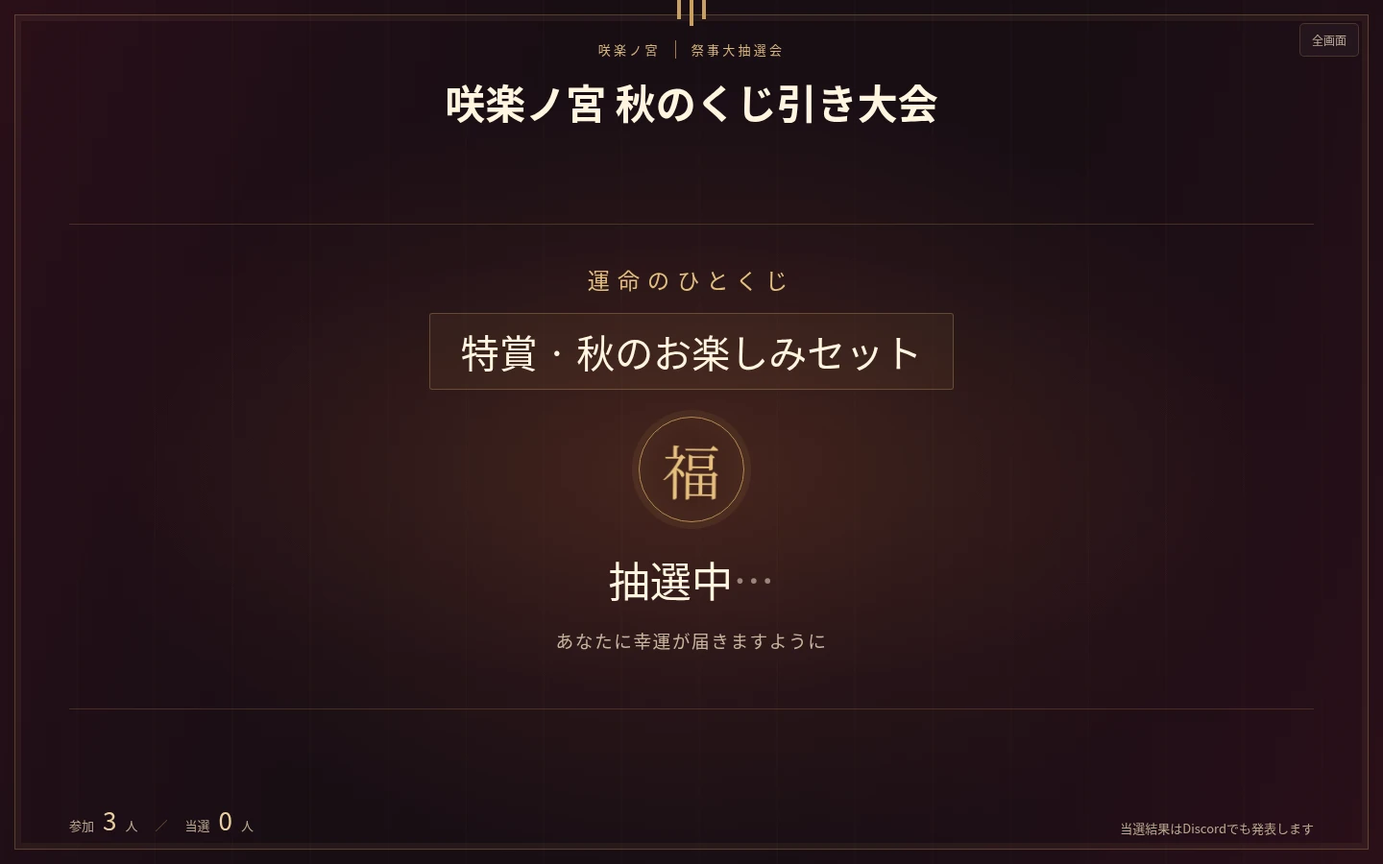
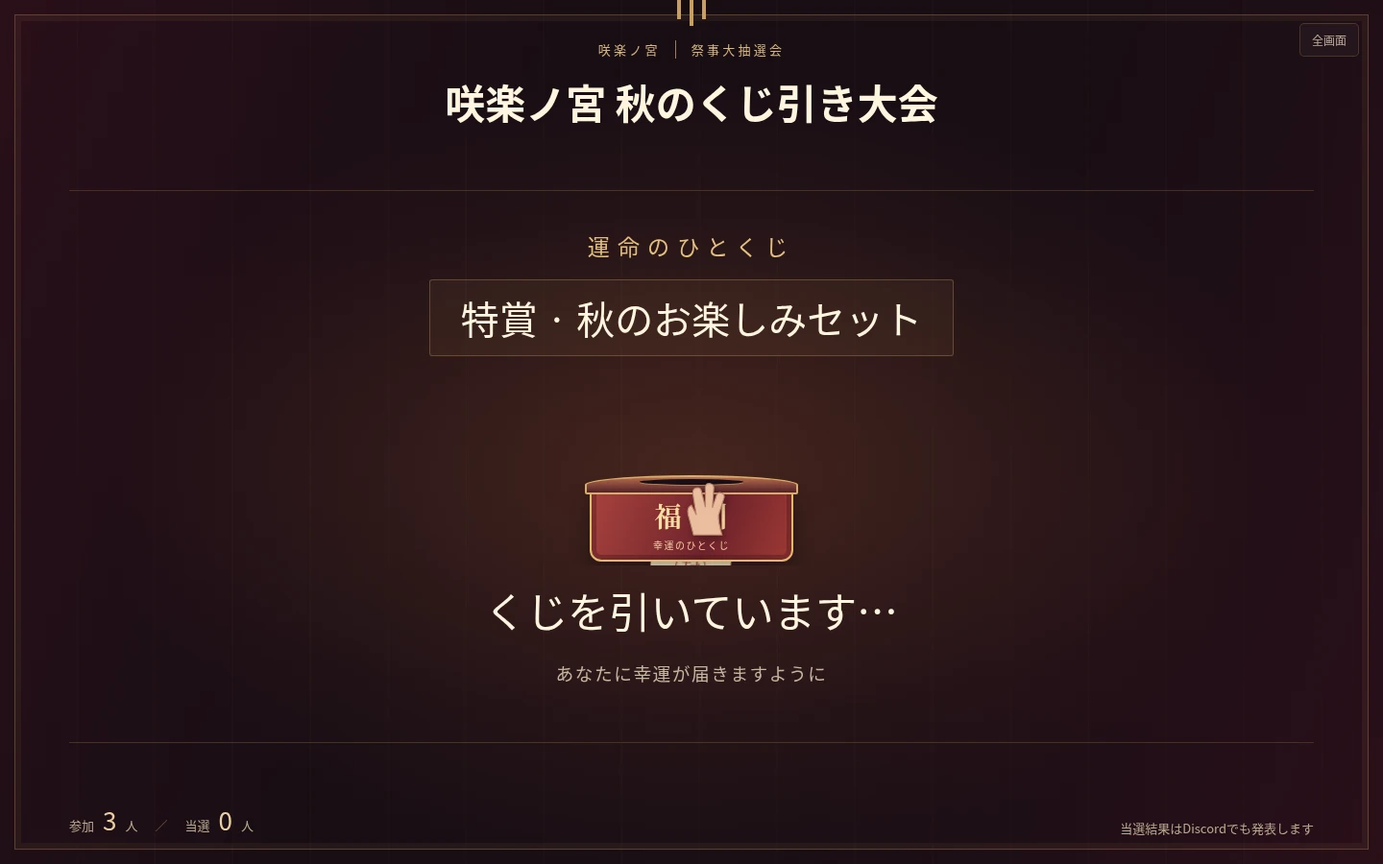
くじ引きの練習操作と箱から札を引いて開く演出を追加する

Changed region(s): [[0.3438, 0.4978, 0.625, 0.8089], [0.3125, 0.28, 0.6562, 0.4356]]

diff --git a/src/web/public/event-lottery-screen.css b/src/web/public/event-lottery-screen.css
@@ -1,3 +1,23 @@
-*{box-sizing:border-box}html,body{margin:0;min-height:100%;background:#180e14;color:#fff5de;font-family:"Noto Sans JP","Hiragino Kaku Gothic ProN",Meiryo,sans-serif}.els-screen{position:relative;isolation:isolate;min-height:100svh;overflow:hidden;display:grid;grid-template-rows:auto 1fr auto;gap:20px;padding:42px clamp(20px,5vw,100px) 28px;background:radial-gradient(ellipse at 50% 55%,#68302770,transparent 60%),linear-gradient(110deg,#2a0f19,#180e14 35%,#180e14 65%,#2a0f19)}.els-screen:before{content:"";position:absolute;inset:15px;border:1px solid #bc965660;box-shadow:inset 0 0 0 6px #bc965614;pointer-events:none}.els-screen:after{content:"";position:absolute;inset:0;z-index:-1;opacity:.3;background:repeating-linear-gradient(90deg,transparent 0 79px,#bc965614 80px 81px)}[hidden]{display:none!important}.els-heading{text-align:center}.els-heading>p{display:flex;justify-content:center;gap:1.2em;margin:0 0 13px;color:#d8b57b;font-size:13px;letter-spacing:.25em}.els-heading>p span{border-left:1px solid #a67e46;padding-left:1.2em}.els-heading h1{max-width:1100px;margin:0 auto;font-size:clamp(22px,3vw,42px);font-weight:600;overflow-wrap:anywhere;line-height:1.5}.els-ornament{position:absolute;top:0;left:50%;display:flex;gap:9px;transform:translateX(-50%)}.els-ornament i{width:4px;height:20px;background:#c89f5e}.els-ornament i:nth-child(2){height:27px}.els-stage{position:relative;align-self:center;justify-self:center;width:100%;max-width:1440px;min-height:450px;padding:40px 35px;text-align:center;border-top:1px solid #ac854846;border-bottom:1px solid #ac854846;background:radial-gradient(ellipse at center,#b4833016,transparent 65%)}.els-eyebrow{margin:0 0 18px;color:#e4bf7d;font-size:clamp(15px,1.6vw,24px);letter-spacing:.35em}.els-prize{display:inline-block;max-width:100%;margin:0 0 28px;padding:10px 32px;border:1px solid #d4aa684f;border-radius:3px;background:#c79b5312;font-size:clamp(20px,3vw,40px);font-weight:500;overflow-wrap:anywhere}.els-waiting{padding:65px 0}.els-waiting strong{display:block;font-size:clamp(26px,4vw,64px);font-weight:500;line-height:1.6;overflow-wrap:anywhere}.els-waiting p,.els-drawing p{color:#c6b49d;font-size:clamp(13px,1.3vw,19px);letter-spacing:.08em}.els-winner{position:relative;z-index:2}.els-winner>strong{display:block;font-size:clamp(32px,6vw,100px);font-weight:800;line-height:1.4;overflow-wrap:anywhere;text-shadow:0 3px 30px #edc68132}.els-honorific{display:block;margin-top:8px;color:#d7c9b1;font-size:clamp(16px,2vw,25px)}.els-coins{margin:16px 0 8px;color:#efc777;font-size:clamp(28px,4vw,62px);font-weight:700}.els-coins small{margin-left:.4em;font-size:.4em;font-weight:400}.els-congratulations{margin:26px 0 0;color:#edce98;font-size:clamp(16px,2vw,28px);letter-spacing:.2em}.els-drawing>strong{font-size:clamp(25px,3vw,45px);font-weight:500}.els-drum{width:110px;height:110px;border:1px solid #b88d51;border-radius:50%;margin:0 auto 28px;display:grid;place-items:center;box-shadow:0 0 0 7px #d7ae5c15,inset 0 0 30px #d7ae5c16}.els-drum span{display:block;color:#e7c07c;font-family:serif;font-size:58px;animation:els-turn 1.2s ease-in-out infinite}.els-drawing>strong span{animation:els-pulse 1s ease-in-out infinite}.els-footer{display:flex;align-items:end;justify-content:space-between;gap:16px;color:#baa78e;font-size:13px}.els-footer>p{margin:0}.els-footer>p:first-child{display:flex;align-items:baseline;gap:9px}.els-footer strong{color:#ebcf9f;font-size:26px;font-weight:500;font-variant-numeric:tabular-nums}.els-footer b{margin:0 9px;color:#73583e;font-weight:400}.els-toolbar{position:absolute;top:24px;right:25px;z-index:5}.els-toolbar button{padding:8px 12px;border:1px solid #b99b6040;border-radius:5px;background:#24151c;color:#bfae97;font:inherit;font-size:12px;cursor:pointer}.els-toolbar button:focus-visible{outline:2px solid #f7cc7c;outline-offset:3px}.els-connection{position:fixed;z-index:8;left:20px;bottom:12px;max-width:calc(100% - 40px);margin:0;padding:10px 15px;background:#fff4df;color:#53271d;border:1px solid #ba8f50;border-radius:4px;font-size:13px}:fullscreen .els-toolbar{opacity:0}:fullscreen .els-toolbar:hover,:fullscreen .els-toolbar:focus-within{opacity:1}.els-confetti{position:absolute;inset:0;overflow:hidden;pointer-events:none;z-index:1}.els-confetti i{position:absolute;left:50%;top:0;width:6px;height:14px;background:#d0a85d;opacity:0}.els-confetti i:nth-child(3n){background:#f8ebcb}.els-confetti i:nth-child(3n+1){background:#af4947}.els-reveal .els-confetti i{animation:els-fall 2.8s ease-out both}.els-reveal .els-winner{animation:els-reveal .65s ease-out both}.els-confetti i:nth-child(6n+1){left:6%;animation-delay:.1s}.els-confetti i:nth-child(6n+2){left:22%;animation-delay:.4s}.els-confetti i:nth-child(6n+3){left:39%;animation-delay:.2s}.els-confetti i:nth-child(6n+4){left:60%;animation-delay:.5s}.els-confetti i:nth-child(6n+5){left:78%;animation-delay:.3s}.els-confetti i:nth-child(6n){left:94%;animation-delay:.6s}.els-confetti i:nth-child(n+7){margin-left:20px;animation-duration:3.3s}.els-confetti i:nth-child(n+13){margin-left:-14px;animation-duration:3.7s}@keyframes els-turn{0%,100%{transform:rotate(-5deg) scale(1)}50%{transform:rotate(5deg) scale(1.08)}}@keyframes els-pulse{50%{opacity:.3}}@keyframes els-reveal{from{opacity:0;transform:translateY(18px)}to{opacity:1;transform:none}}@keyframes els-fall{0%{opacity:0;transform:translateY(-20px) rotate(0)}15%{opacity:.8}100%{opacity:0;transform:translateY(480px) rotate(260deg)}}@media(max-width:700px){.els-screen{padding:65px 25px 25px;gap:22px}.els-heading>p{font-size:10px;letter-spacing:.1em}.els-stage{padding:30px 12px;min-height:360px}.els-prize{padding:8px 16px}.els-footer{flex-direction:column;align-items:center}.els-footer strong{font-size:22px}.els-waiting{padding:60px 0}.els-toolbar{top:26px;right:26px}.els-congratulations{letter-spacing:.08em}}@media(max-height:650px) and (min-width:701px){.els-screen{padding-top:25px;gap:10px}.els-stage{padding:20px;min-height:300px}.els-prize{margin-bottom:15px}.els-drum{width:70px;height:70px;margin-bottom:12px}.els-drum span{font-size:38px}.els-congratulations{margin-top:14px}.els-heading h1{font-size:25px}.els-waiting{padding:35px 0}}@media(prefers-reduced-motion:reduce){*,*:before,*:after{animation:none!important;transition:none!important}.els-confetti{display:none}}
+*{box-sizing:border-box}html,body{margin:0;min-height:100%;background:#180e14;color:#fff5de;font-family:"Noto Sans JP","Hiragino Kaku Gothic ProN",Meiryo,sans-serif}.els-screen{position:relative;isolation:isolate;min-height:100svh;overflow:hidden;display:grid;grid-template-rows:auto 1fr auto;gap:20px;padding:42px clamp(20px,5vw,100px) 28px;background:radial-gradient(ellipse at 50% 55%,#68302770,transparent 60%),linear-gradient(110deg,#2a0f19,#180e14 35%,#180e14 65%,#2a0f19)}.els-screen:before{content:"";position:absolute;inset:15px;border:1px solid #bc965660;box-shadow:inset 0 0 0 6px #bc965614;pointer-events:none}.els-screen:after{content:"";position:absolute;inset:0;z-index:-1;opacity:.3;background:repeating-linear-gradient(90deg,transparent 0 79px,#bc965614 80px 81px)}[hidden]{display:none!important}.els-heading{text-align:center}.els-heading>p{display:flex;justify-content:center;gap:1.2em;margin:0 0 13px;color:#d8b57b;font-size:13px;letter-spacing:.25em}.els-heading>p span{border-left:1px solid #a67e46;padding-left:1.2em}.els-heading h1{max-width:1100px;margin:0 auto;font-size:clamp(22px,3vw,42px);font-weight:600;overflow-wrap:anywhere;line-height:1.5}.els-ornament{position:absolute;top:0;left:50%;display:flex;gap:9px;transform:translateX(-50%)}.els-ornament i{width:4px;height:20px;background:#c89f5e}.els-ornament i:nth-child(2){height:27px}.els-stage{position:relative;align-self:center;justify-self:center;width:100%;max-width:1440px;min-height:450px;padding:40px 35px;text-align:center;border-top:1px solid #ac854846;border-bottom:1px solid #ac854846;background:radial-gradient(ellipse at center,#b4833016,transparent 65%)}.els-eyebrow{margin:0 0 18px;color:#e4bf7d;font-size:clamp(15px,1.6vw,24px);letter-spacing:.35em}.els-prize{display:inline-block;max-width:100%;margin:0 0 28px;padding:10px 32px;border:1px solid #d4aa684f;border-radius:3px;background:#c79b5312;font-size:clamp(20px,3vw,40px);font-weight:500;overflow-wrap:anywhere}.els-waiting{padding:65px 0}.els-waiting strong{display:block;font-size:clamp(26px,4vw,64px);font-weight:500;line-height:1.6;overflow-wrap:anywhere}.els-waiting p,.els-drawing p{color:#c6b49d;font-size:clamp(13px,1.3vw,19px);letter-spacing:.08em}.els-winner{position:relative;z-index:2}.els-winner>strong{display:block;font-size:clamp(32px,6vw,100px);font-weight:800;line-height:1.4;overflow-wrap:anywhere;text-shadow:0 3px 30px #edc68132}.els-honorific{display:block;margin-top:8px;color:#d7c9b1;font-size:clamp(16px,2vw,25px)}.els-coins{margin:16px 0 8px;color:#efc777;font-size:clamp(28px,4vw,62px);font-weight:700}.els-coins small{margin-left:.4em;font-size:.4em;font-weight:400}.els-congratulations{margin:26px 0 0;color:#edce98;font-size:clamp(16px,2vw,28px);letter-spacing:.2em}.els-drawing>strong{font-size:clamp(25px,3vw,45px);font-weight:500}.els-drawing>strong span{animation:els-pulse 1s ease-in-out infinite}.els-footer{display:flex;align-items:end;justify-content:space-between;gap:16px;color:#baa78e;font-size:13px}.els-footer>p{margin:0}.els-footer>p:first-child{display:flex;align-items:baseline;gap:9px}.els-footer strong{color:#ebcf9f;font-size:26px;font-weight:500;font-variant-numeric:tabular-nums}.els-footer b{margin:0 9px;color:#73583e;font-weight:400}.els-toolbar{position:absolute;top:24px;right:25px;z-index:5}.els-toolbar button{padding:8px 12px;border:1px solid #b99b6040;border-radius:5px;background:#24151c;color:#bfae97;font:inherit;font-size:12px;cursor:pointer}.els-toolbar button:focus-visible{outline:2px solid #f7cc7c;outline-offset:3px}.els-connection{position:fixed;z-index:8;left:20px;bottom:12px;max-width:calc(100% - 40px);margin:0;padding:10px 15px;background:#fff4df;color:#53271d;border:1px solid #ba8f50;border-radius:4px;font-size:13px}:fullscreen .els-toolbar{opacity:0}:fullscreen .els-toolbar:hover,:fullscreen .els-toolbar:focus-within{opacity:1}.els-confetti{position:absolute;inset:0;overflow:hidden;pointer-events:none;z-index:1}.els-confetti i{position:absolute;left:50%;top:0;width:6px;height:14px;background:#d0a85d;opacity:0}.els-confetti i:nth-child(3n){background:#f8ebcb}.els-confetti i:nth-child(3n+1){background:#af4947}.els-reveal .els-confetti i{animation:els-fall 2.8s ease-out both}.els-reveal .els-winner{animation:els-reveal .65s ease-out both}.els-confetti i:nth-child(6n+1){left:6%;animation-delay:.1s}.els-confetti i:nth-child(6n+2){left:22%;animation-delay:.4s}.els-confetti i:nth-child(6n+3){left:39%;animation-delay:.2s}.els-confetti i:nth-child(6n+4){left:60%;animation-delay:.5s}.els-confetti i:nth-child(6n+5){left:78%;animation-delay:.3s}.els-confetti i:nth-child(6n){left:94%;animation-delay:.6s}.els-confetti i:nth-child(n+7){margin-left:20px;animation-duration:3.3s}.els-confetti i:nth-child(n+13){margin-left:-14px;animation-duration:3.7s}@keyframes els-pulse{50%{opacity:.3}}@keyframes els-reveal{from{opacity:0;transform:translateY(18px)}to{opacity:1;transform:none}}@keyframes els-fall{0%{opacity:0;transform:translateY(-20px) rotate(0)}15%{opacity:.8}100%{opacity:0;transform:translateY(480px) rotate(260deg)}}@media(max-width:700px){.els-screen{padding:65px 25px 25px;gap:22px}.els-heading>p{font-size:10px;letter-spacing:.1em}.els-stage{padding:30px 12px;min-height:360px}.els-prize{padding:8px 16px}.els-footer{flex-direction:column;align-items:center}.els-footer strong{font-size:22px}.els-waiting{padding:60px 0}.els-toolbar{top:26px;right:26px}.els-congratulations{letter-spacing:.08em}}@media(max-height:650px) and (min-width:701px){.els-screen{padding-top:25px;gap:10px}.els-stage{padding:20px;min-height:300px}.els-prize{margin-bottom:15px}.els-congratulations{margin-top:14px}.els-heading h1{font-size:25px}.els-waiting{padding:35px 0}}@media(prefers-reduced-motion:reduce){*,*:before,*:after{animation:none!important;transition:none!important}.els-confetti{display:none}}
 
 .els-screen[data-long-name=true] .els-winner>strong{font-size:clamp(24px,3vw,48px)}
+/* 箱から札を取り出し、封を開いて発表する。名前は確定表示まで入れない。 */
+.els-lottery{position:relative;width:260px;max-width:100%;height:190px;margin:0 auto 14px;overflow:hidden;perspective:600px}
+.els-box{position:absolute;z-index:3;left:calc(50% - 106px);top:106px;width:212px;height:80px;padding-top:14px;border:2px solid #e1b96b;border-radius:3px 3px 12px 12px;background:linear-gradient(110deg,#a9433e,#6d222b 60%,#9e3934);box-shadow:inset 0 0 0 5px #50181e70,0 9px 20px #0005}
+.els-box:before{content:"";position:absolute;left:-7px;right:-7px;top:-12px;height:16px;border:2px solid #d7ad68;border-radius:50% 50% 2px 2px;background:linear-gradient(#b66c4c,#522128)}
+.els-box:after{content:"";position:absolute;left:50px;right:50px;top:-8px;height:6px;border-radius:50%;background:#190f16;box-shadow:0 1px #e1b96b80}
+.els-box b{display:block;color:#ffe0a1;font-family:serif;font-size:28px;line-height:1.2;letter-spacing:.25em;padding-left:.25em}.els-box small{display:block;margin-top:5px;font-size:10px;letter-spacing:.15em;color:#f0c9a0}
+.els-ticket{position:absolute;z-index:2;left:calc(50% - 42px);top:40px;width:84px;height:100px;padding:10px 4px;border:1px solid #c89955;background:linear-gradient(120deg,#fff7dc,#e9d6ae);color:#913d38;box-shadow:0 5px 12px #0005;transform:translateY(90px) rotate(5deg);animation:els-ticket-pull 2.3s ease-in-out both}
+.els-ticket>b{display:block;font-family:serif;font-size:36px;line-height:1.2}.els-ticket>small{font-size:9px;color:#825f42}.els-ticket-fold{position:absolute;inset:22% 0 0;display:grid;place-items:center;transform-origin:top;backface-visibility:hidden;background:linear-gradient(#f3e3bf,#fdf4d6);border-top:1px solid #caa46b;animation:els-ticket-open 2.3s ease-in-out both}.els-ticket-fold span{display:grid;place-items:center;width:32px;height:32px;border:1px solid #a64c44;border-radius:50%;font-family:serif;font-size:21px;font-style:normal;color:#a64c44}
+.els-hand{position:absolute;z-index:4;left:calc(50% - 16px);top:14px;width:58px;height:65px;fill:#e9bd9e;stroke:#b88268;stroke-width:1.5;transform:translateY(85px);animation:els-hand-pull 2.3s ease-in-out both;filter:drop-shadow(2px 3px 3px #0004)}
+.els-draw-caption{position:relative;display:block;min-height:1.5em;line-height:1.5}.els-draw-caption>span{position:absolute;inset:0}.els-step-pull{animation:els-step-pull 2.3s linear both!important}.els-step-open{opacity:0;animation:els-step-open 2.3s linear both!important}
+.els-demo-badge{display:inline-block!important;margin:12px 0 0!important;padding:6px 14px;border:1px solid #dbb46e;border-radius:4px;background:#563e20;color:#ffe3a8!important;font-size:12px!important;letter-spacing:.05em!important}
+.els-screen[data-demo=true]{grid-template-rows:auto 1fr auto auto;gap:12px}.els-screen[data-demo=true] .els-stage{padding:18px 20px;min-height:350px}.els-screen[data-demo=true] .els-prize{margin-bottom:12px}.els-demo-controls{display:flex;justify-content:center;gap:12px;flex-wrap:wrap}.els-demo-controls button{padding:12px 20px;border:1px solid #c79f5e;border-radius:5px;background:#9a3835;color:#fff3d7;font:inherit;font-size:15px;cursor:pointer}.els-demo-controls button+button{background:transparent;color:#e4c794}.els-demo-controls button:disabled{opacity:.55;cursor:default}.els-demo-controls button:focus-visible{outline:2px solid #ffe5b0;outline-offset:4px}
+@keyframes els-ticket-pull{0%,12%{transform:translateY(90px) rotate(5deg)}48%{transform:translateY(-35px) rotate(-8deg)}68%,100%{transform:translateY(-35px) rotate(0)}}
+@keyframes els-hand-pull{0%,12%{transform:translateY(85px);opacity:1}48%{transform:translateY(-7px) rotate(-8deg);opacity:1}65%,100%{transform:translateY(-20px);opacity:0}}
+@keyframes els-ticket-open{0%,55%{transform:rotateX(0);opacity:1}82%,100%{transform:rotateX(-155deg);opacity:0}}
+@keyframes els-step-pull{0%,54%{opacity:1}55%,100%{opacity:0}}@keyframes els-step-open{0%,54%{opacity:0}55%,100%{opacity:1}}
+@media(max-width:700px){.els-lottery{transform:scale(.85);margin-top:-10px;margin-bottom:-5px}.els-draw-caption{font-size:22px!important}.els-demo-controls button{padding:11px 14px}.els-screen[data-demo=true] .els-stage{padding:18px 8px}}
+@media(prefers-reduced-motion:reduce){.els-ticket{animation:none;transform:translateY(-35px)}.els-ticket-fold,.els-hand,.els-step-open{display:none}.els-step-pull{opacity:1;animation:none!important}}
+@media(min-width:701px) and (min-height:501px) and (max-height:800px){.els-screen{padding-top:26px;padding-bottom:22px}.els-heading h1{font-size:30px}.els-heading>p:first-child{margin-bottom:8px}.els-demo-badge{margin-top:8px!important}.els-stage,.els-screen[data-demo=true] .els-stage{padding-top:12px;padding-bottom:12px;min-height:300px}.els-eyebrow{margin-bottom:10px}.els-prize{font-size:28px;margin-bottom:12px}.els-lottery{transform:scale(.8);margin-top:-16px;margin-bottom:-20px}.els-draw-caption{font-size:30px!important}.els-drawing p{font-size:14px;margin:12px 0}}
+@media(min-width:701px) and (max-height:500px){.els-screen{padding:18px 25px 15px;gap:6px}.els-screen[data-demo=true]{gap:6px}.els-heading>p:first-child{display:none}.els-heading h1{font-size:20px}.els-demo-badge{margin-top:4px!important;padding:4px 10px;font-size:10px!important}.els-stage,.els-screen[data-demo=true] .els-stage{padding:6px;min-height:0}.els-eyebrow{font-size:12px;margin-bottom:4px}.els-prize{font-size:18px;padding:4px 12px;margin-bottom:4px!important}.els-lottery{transform:scale(.45);margin-top:-45px;margin-bottom:-55px}.els-draw-caption{font-size:18px!important}.els-drawing p{display:none}.els-demo-controls button{padding:7px 10px;font-size:12px}.els-footer>p:last-child{display:none}.els-footer strong{font-size:18px}.els-screen[data-demo=true] .els-demo-badge{display:inline-block!important}.els-winner>strong{font-size:32px}.els-honorific{font-size:14px;margin-top:2px}.els-congratulations{margin-top:10px;font-size:16px}.els-coins{font-size:24px;margin:6px 0}.els-waiting{padding:20px 0}.els-waiting strong{font-size:22px}.els-waiting p{font-size:12px}}

diff --git a/src/web/eventLottery.tsx b/src/web/eventLottery.tsx
@@ -5,7 +5,7 @@ import type {AdminSession} from '../db/schema.js';
 import type {GuildChannel} from '../lib/discordRest.js';
 import {Layout} from './views/layout.js';
 import {assetUrl} from './assets.js';
-import {EventLotteryScreen,eventLotteryScreenState} from './views/eventLotteryScreen.js';
+import {EventLotteryScreen,eventLotteryScreenState,eventLotteryDemoState} from './views/eventLotteryScreen.js';
 import {createEventLottery,editEventLottery,eventLotteryView,listEventLotteries,changeEventLottery,drawEventLottery,markEventDelivered,retryEventLotteryNotices,refreshEventLotteryPanel,EventLotteryError} from '../services/eventLottery.js';
 type Env={Variables:{session:AdminSession}};
 const PATH='/economy/event-lottery';
@@ -14,6 +14,7 @@ export function mountEventLottery(app:Hono<Env>,db:Db,channels:()=>Promise<Guild
  app.use(PATH,async(c,next)=>{const s=c.get('session');if(s.level!=='guji'||s.pages&&!s.pages.includes('economy'))return c.text('経済ページ権限のある宮司だけ操作できます。',403);c.header('Cache-Control','private, no-store');await next();});
  app.get(PATH,async c=>{
   const s=c.get('session'),id=c.req.query('event');
+  if(c.req.query('screen')==='demo')return c.html('<!doctype html>'+EventLotteryScreen({state:eventLotteryDemoState(),endpoint:'',demo:true}).toString());
   let model:Awaited<ReturnType<typeof eventLotteryView>>|undefined;try{if(id)model=await eventLotteryView(db,id);}catch{return c.text('イベントがありません。',404);}
   const screen=c.req.query('screen');
   if(screen==='1'||screen==='data'){
@@ -25,7 +26,7 @@ export function mountEventLottery(app:Hono<Env>,db:Db,channels:()=>Promise<Guild
   const field=(name:string,value:string|number)=><input type="hidden" name={name} value={String(value)}/>;
   const form=(action:string,label:string,extra:Record<string,string>={})=><form method="post" action={PATH}>{field('_csrf',s.csrfToken)}{field('eventId',id!)}{field('version',model!.event.version)}{field('action',action)}{Object.entries(extra).map(([k,v])=>field(k,v))}<button type="submit">{label}</button></form>;
   const result=model?.results.find(r=>r.id===c.req.query('draw'));
-  return c.html(<Layout title="イベントくじ" session={s} nav="economy"><link rel="stylesheet" href={assetUrl('event-lottery.css')}/><script src={assetUrl('event-lottery.js')} defer/><h1>🎟 イベントくじ</h1><p>Discordで参加費を集め、受付終了後に景品ごとの当選者を一人ずつ引きます。賞金は管理者発行です。</p><p class={c.req.query('message')?'flash warn':undefined} role={c.req.query('message')?'alert':'status'}>{c.req.query('message')}</p><nav>{list.map(e=><p><a href={PATH+'?event='+e.id}>{e.name} · {states[e.state]}</a></p>)}</nav>
+  return c.html(<Layout title="イベントくじ" session={s} nav="economy"><link rel="stylesheet" href={assetUrl('event-lottery.css')}/><script src={assetUrl('event-lottery.js')} defer/><h1>🎟 イベントくじ</h1><p>Discordで参加費を集め、受付終了後に景品ごとの当選者を一人ずつ引きます。賞金は管理者発行です。</p><p><a href={PATH+'?screen=demo'} target="_blank" rel="noopener">テスト抽選を試す（別画面）</a> · 架空の参加者と景品だけで、何度でも練習できます。</p><p class={c.req.query('message')?'flash warn':undefined} role={c.req.query('message')?'alert':'status'}>{c.req.query('message')}</p><nav>{list.map(e=><p><a href={PATH+'?event='+e.id}>{e.name} · {states[e.state]}</a></p>)}</nav>
   {(!model||model.event.state==='draft'&&c.req.query('edit')==='1')?<section class="card"><h2>イベントを作る</h2><form method="post" action={PATH}>{field('_csrf',s.csrfToken)}{field('action',model?'edit':'create')}{model&&<>{field('eventId',model.event.id)}{field('version',model.event.version)}</>}<label>イベント名<input name="name" maxlength={100} value={model?.event.name??''} required/></label><label>参加費（銭）<input name="fee" type="number" min={1} max={100000000} value={model?.event.fee} required/></label><label>受付チャンネルのID<input name="channelId" value={model?.event.channelId} pattern="[0-9]{17,20}" required/></label><label>結果発表チャンネルのID<input name="resultChannelId" value={model?.event.resultChannelId} pattern="[0-9]{17,20}" required/></label><p>Discordでチャンネルを右クリックしてIDをコピーします。BOTが投稿できるチャンネルを指定してください。</p><h3>景品</h3><p>景品を1種類以上入れてください。使わない行は名前を空欄にします。銭以外の景品は名前と本数だけで登録できます。賞金が0銭で受け渡し内容が空欄なら、景品名を品物名として保存します。銭と品物を組み合わせる場合は、賞金と品物の両方を入力してください。受付開始後は変更できません。</p>{Array.from({length:10},(_,i)=><fieldset><legend>景品{i+1}</legend><label>名前<input name={'name'+i} value={model?.event.prizes[i]?.name??''} maxlength={100}/></label><label>本数<input name={'count'+i} type="number" min={1} max={10000} value={model?.event.prizes[i]?.count??1}/></label><label>1人分の賞金（銭）<input name={'coins'+i} type="number" min={0} max={100000000} value={model?.event.prizes[i]?.coins??0}/></label><label>品物・受け渡し内容（任意）<input name={'item'+i} value={model?.event.prizes[i]?.item??''} maxlength={500}/></label></fieldset>)}<button>準備中として保存</button></form></section>:<>
   <section class="card"><h2>{model.event.name} · {states[model.event.state]}</h2><p>参加費 {model.event.fee.toLocaleString()}銭 · 参加 {model.participants.length}人 · 回収総額 {model.collected.toLocaleString()}銭 · 返金 {model.refunded.toLocaleString()}銭</p><p>1人1口・1人1当選。落選時の返金はありません。抽選前の中止では全額返金します。</p>{model.event.state==='draft'&&<a href={PATH+'?event='+id+'&edit=1'}>受付内容・景品を変更する</a>}<p><a href={PATH+'?event='+encodeURIComponent(model.event.id)+'&screen=1'} target="_blank" rel="noopener">画面共有用の表示を開く（別画面）</a></p><p>共有用の画面だけをDiscordで共有してください。手元のこの画面で抽選すると、共有画面も自動で切り替わります。</p><div class="el-actions">{model.event.state==='draft'&&form('open','受付開始・Discordへ案内')}{model.event.state==='open'&&form('close','受付を締め切る')}{['draft','open','closed'].includes(model.event.state)&&!model.results.length&&form('cancel','中止して全額返金')}{model.event.state==='closed'&&form('complete','抽選を完了する')}</div></section>
   {result&&<section class="el-stage" data-el-result data-el-id={result.id} data-el-at={result.createdAt.getTime()+3000} data-el-names={JSON.stringify(model.participants.filter(p=>!p.refunded).map(p=>p.displayName))}><h2>{result.prizeName}</h2><p data-el-spinner aria-hidden="true">抽選結果</p><div data-el-winner><strong>{result.displayName} さん</strong><p>{result.coins.toLocaleString()}銭 {result.item}</p></div><p>この当選は保存済みです。読み直しても変わりません。</p></section>}

diff --git a/src/web/views/eventLotteryScreen.tsx b/src/web/views/eventLotteryScreen.tsx
@@ -17,21 +17,23 @@ export function eventLotteryScreenState(model:Model,now:Date,cursor?:{after?:str
  };
 }
 export type EventLotteryScreenState=ReturnType<typeof eventLotteryScreenState>;
-export function EventLotteryScreen({state,endpoint}:{state:EventLotteryScreenState;endpoint:string}){
+export function eventLotteryDemoState():EventLotteryScreenState{return {name:'テスト抽選会',state:'closed',participants:8,winners:0,draw:null};}
+export function EventLotteryScreen({state,endpoint,demo=false}:{state:EventLotteryScreenState;endpoint:string;demo?:boolean}){
  const stage=state.draw?(state.draw.winner===null?'drawing':'winner'):state.state==='cancelled'?'cancelled':state.state==='completed'?'ended':'waiting';
  const waiting=state.state==='open'?'ただいま参加受付中':state.state==='cancelled'?'このイベントは中止になりました':state.state==='completed'?'本日の抽選は終了しました':'まもなく抽選が始まります';
  return <html lang="ja"><head><meta charset="utf-8"/><meta name="viewport" content="width=device-width, initial-scale=1"/><meta name="robots" content="noindex, nofollow"/><title>{state.name} · 抽選会</title><link rel="stylesheet" href={assetUrl('event-lottery-screen.css')}/><script src={assetUrl('event-lottery-screen.js')} defer/></head>
- <body class="els-body"><main class="els-screen" data-el-screen data-endpoint={endpoint} data-initial={JSON.stringify(state)} data-stage={stage} data-long-name={String((state.draw?.winner?.length??0)>24)}>
-  <header class="els-heading"><p>咲楽ノ宮 <span>祭事大抽選会</span></p><h1 data-screen-name>{state.name}</h1></header>
+ <body class="els-body"><main class="els-screen" data-el-screen data-demo={demo?'true':undefined} data-endpoint={endpoint} data-initial={JSON.stringify(state)} data-stage={stage} data-long-name={String((state.draw?.winner?.length??0)>24)}>
+  <header class="els-heading"><p>咲楽ノ宮 <span>祭事大抽選会</span></p><h1 data-screen-name>{state.name}</h1>{demo&&<p class="els-demo-badge">テストモード · 架空の参加者と景品</p>}</header>
   <div class="els-ornament" aria-hidden="true"><i/><i/><i/></div>
   <section class="els-stage" aria-label="当選発表"><p class="els-eyebrow" data-screen-label>{stage==='winner'?'ご当選':stage==='drawing'?'運命のひとくじ':['cancelled','ended'].includes(stage)?'お知らせ':'幸運を、あなたに'}</p>
    <h2 class="els-prize" data-screen-prize hidden={!state.draw}>{state.draw?.prize}</h2>
-   <div class="els-waiting" data-screen-waiting hidden={!!state.draw}><strong data-screen-wait-title>{waiting}</strong><p data-screen-wait-note>{['cancelled','completed'].includes(state.state)?'ご参加ありがとうございました':'当選発表まで、そのままお待ちください'}</p></div>
-   <div class="els-drawing" data-screen-drawing hidden={stage!=='drawing'} aria-label="抽選中"><div class="els-drum" aria-hidden="true"><span>福</span></div><strong>抽選中<span>…</span></strong><p>あなたに幸運が届きますように</p></div>
+   <div class="els-waiting" data-screen-waiting hidden={!!state.draw}><strong data-screen-wait-title>{demo?'テストでくじを引いてみましょう':waiting}</strong><p data-screen-wait-note>{demo?'「テストで1回引く」を押すと演出が始まります':['cancelled','completed'].includes(state.state)?'ご参加ありがとうございました':'当選発表まで、そのままお待ちください'}</p></div>
+   <div class="els-drawing" data-screen-drawing hidden={stage!=='drawing'} aria-label="くじを引いて開封中"><div class="els-lottery" aria-hidden="true"><div class="els-ticket"><b>福</b><small>もうすぐ発表</small><i class="els-ticket-fold"><span>封</span></i></div><div class="els-box"><b>福 引</b><small>幸運のひとくじ</small></div><svg class="els-hand" viewBox="0 0 80 80"><path d="M25 77 17 47Q15 37 22 34L29 48 24 18Q23 9 31 9Q36 9 37 17L42 37 42 9Q42 2 49 3Q55 4 54 11L52 38 58 20Q60 14 66 17Q71 20 68 26L61 48Q60 58 66 77Z"/></svg></div><strong class="els-draw-caption" aria-hidden="true"><span class="els-step-pull">くじを引いています…</span><span class="els-step-open">札を開いています…</span></strong><p>あなたに幸運が届きますように</p></div>
    <div class="els-winner" data-screen-winner hidden={stage!=='winner'} aria-live="polite" aria-atomic="true"><strong data-screen-winner-name>{state.draw?.winner}</strong><span class="els-honorific">さん</span><p class="els-coins" data-screen-coins hidden={!state.draw?.coins}><span data-screen-amount>{state.draw?.coins?.toLocaleString('ja-JP')}</span><small>銭</small></p><p class="els-congratulations">おめでとうございます</p></div>
    <div class="els-confetti" aria-hidden="true">{Array.from({length:18},()=> <i/>)}</div>
   </section>
-  <footer class="els-footer"><p><span>参加</span><strong data-screen-participants>{state.participants}</strong><span>人</span><b>／</b><span>当選</span><strong data-screen-winners>{state.winners}</strong><span>人</span></p><p data-screen-footer>{state.state==='completed'?'ご参加ありがとうございました':'当選結果はDiscordでも発表します'}</p></footer>
+  {demo&&<div class="els-demo-controls"><button type="button" data-screen-demo-draw>テストで1回引く</button><button type="button" data-screen-demo-reset>最初に戻す</button></div>}
+  <footer class="els-footer"><p><span>参加</span><strong data-screen-participants>{state.participants}</strong><span>人</span><b>／</b><span>当選</span><strong data-screen-winners>{state.winners}</strong><span>人</span></p><p data-screen-footer>{demo?'練習用です。銭の増減・景品の消費・Discord発表はありません':state.state==='completed'?'ご参加ありがとうございました':'当選結果はDiscordでも発表します'}</p></footer>
   <div class="els-toolbar"><button type="button" data-screen-fullscreen>全画面</button></div><p class="els-connection" data-screen-connection hidden role="status"/>
  </main></body></html>;
 }

diff --git a/src/changelog.ts b/src/changelog.ts
@@ -30,7 +30,7 @@ export type ChangelogEntry = {
 };
 
 export const CHANGELOG: ChangelogEntry[] = [
-  {id:'2026-11-08-event-lottery-screen',date:'2026-11-08',kind:'improve',where:['社務所Web'],title:'イベントくじを画面共有向けの大きな表示で発表できるように',items:['イベントの運営画面から、全画面にできる共有用の表示を別に開けます。','手元で抽選すると、共有画面も抽選中の演出から当選者と景品の発表へ切り替わります。運営情報や未発表の景品一覧は出しません。'],announcement:{priority:'none',audience:'イベントを運営する宮司',steps:['イベントを開き「画面共有用の表示を開く」を押し、別ウィンドウへ移す。','共有用の画面をDiscordで共有し、必要に応じて「全画面」を押す。','手元の運営画面で受付を締め切り、景品ごとに抽選する。'],postText:'',imagePrompt:'',notes:'共有表示も経済権限のある宮司のみ。共有ページの閲覧・再読込では徴収・抽選・賞金を実行しない。'}},
+  {id:'2026-11-08-event-lottery-screen',date:'2026-11-08',kind:'improve',where:['社務所Web'],title:'イベントくじを画面共有向けの大きな表示で発表できるように',items:['イベントを作る前でも、架空の参加者と景品で繰り返しテストできます。箱から札を引いて開く演出を追加しました。','イベントの運営画面から、全画面にできる共有用の表示を別に開けます。','手元で抽選すると、共有画面も抽選中の演出から当選者と景品の発表へ切り替わります。運営情報や未発表の景品一覧は出しません。'],announcement:{priority:'none',audience:'イベントを運営する宮司',steps:['「テスト抽選を試す」で引く操作と全画面表示を練習する。','イベントを開き「画面共有用の表示を開く」を押し、別ウィンドウへ移す。','共有用の画面をDiscordで共有し、必要に応じて「全画面」を押す。','手元の運営画面で受付を締め切り、景品ごとに抽選する。'],postText:'',imagePrompt:'',notes:'共有表示も経済権限のある宮司のみ。共有ページの閲覧・再読込では徴収・抽選・賞金を実行しない。'}},
   { id: '2026-11-08-guide-graded-roles', date: '2026-11-08', kind: 'fix', where: ['Discord', '社務所Web'], title: '🙋 案内人のロールを階級で分けても、案内の担当・終了のボタンが使えるように', items: ['案内人のロールを「案内人（一級）」などに分けると、「🙋 案内を担当する」「🔚 案内担当を終了する」などが「案内人ロールが必要です」で使えなかったのを直しました。', '名前に「案内人」が入るロールは、いくつあっても案内人として扱います。名前に「案内人」が入らない階級ロールは、社務所Web の「案内・給与」の「🎖 階級などで分かれた、ほかの案内人のロール」で選べます。', '案内人へのお知らせ（記録・案内担当・案内スレッド）は、案内人のロール全部に届きます（同じ人に何回も通知は飛びません）。', 'ロールがなくて使えないときは、いま案内人として見ているロールを本人だけに出します。'], announcement: { priority: 'optional', audience: '案内人', steps: ['案内人の受付パネルで「🙋 案内を担当する」「🔚 案内担当を終了する」をいつもどおり押す', '「案内人ロールが必要です」と出たら、出てきたロールの名前を運営に伝える'], postText: '🙋 案内人のロールを階級で分けたあと、「案内を担当する」「案内担当を終了する」のボタンが使えなくなっていたのを直しました。いつもどおり押してください。まだ「案内人ロールが必要です」と出るときは、そのとき出るロールの名前を運営に伝えてください。', imagePrompt: '不要（文章だけで周知）', notes: '運営へ: 名前に「案内人」が入らない階級ロールがあれば、社務所Web の「案内・給与」の 🎖 の欄で選んで保存してください。' } },
   { id:'2026-11-08-kiseki-screen-balance',date:'2026-11-08',kind:'improve',where:['社務所Web'],title:'軌跡版の液晶の配分を参考画像へ近づける',items:['上部の背景表示を広げ、三神とリールを下側へ揃えました。','リール幅を広げ、下部ステージを短くしました。三人の絵柄と筐体外装は維持します。'],announcement:{priority:'none',audience:'無料試遊を確認する宮司',steps:['軌跡版の無料試遊を開き、液晶の配置と停止操作を確認する。'],postText:'',imagePrompt:'',notes:'液晶内の配置調整のみ。一般公開と銭接続は保留。'} },
   { id:'2026-11-08-event-lottery-restore-panel',date:'2026-11-08',kind:'fix',where:['Discord','社務所Web'],title:'消した受付パネルを同じイベントへ出し直せるように',items:['受付中のイベントで「受付パネルを更新」を押すと、削除済みの投稿は同じイベントのパネルに出し直します。','参加者・支払い・回収額は保持します。権限不足や通信失敗では新しい投稿を作りません。'],announcement:{priority:'none',audience:'イベントを運営する宮司',steps:['消したパネルの元のイベントを開き「受付パネルを更新」を押す。','Discordへの送信状況を確認する。参加者の再登録や再支払いは不要。'],postText:'',imagePrompt:'',notes:'受付投稿の復旧のみ。新しいイベントを作らず、抽選・徴収・賞金は再実行しない。'} },

diff --git a/src/web/public/event-lottery-screen.js b/src/web/public/event-lottery-screen.js
@@ -1,28 +1,29 @@
 (()=>{
  const root=document.querySelector('[data-el-screen]');if(!root)return;
- const find=s=>root.querySelector('[data-screen-'+s+']');
+ const find=s=>root.querySelector('[data-screen-'+s+']'),demo=root.dataset.demo==='true';
  let current=JSON.parse(root.dataset.initial),timer,stopped=false,active=false,holdUntil=0;
  function render(next){
   if(JSON.stringify(next)===JSON.stringify(current))return;
   const draw=next.draw,stage=draw?(draw.winner===null?'drawing':'winner'):next.state==='cancelled'?'cancelled':next.state==='completed'?'ended':'waiting';
   const fresh=stage==='winner'&&(current.draw?.id!==draw.id||current.draw?.winner===null);
   root.dataset.stage=stage;root.dataset.longName=String((draw?.winner?.length||0)>24);
+  if(stage!=='winner')root.classList.remove('els-reveal');
   if(fresh){holdUntil=performance.now()+2500;root.classList.remove('els-reveal');void root.offsetWidth;root.classList.add('els-reveal');}
   find('name').textContent=next.name;document.title=next.name+' · 抽選会';
-  find('label').textContent=stage==='winner'?'ご当選':stage==='drawing'?'運命のひとくじ':['cancelled','ended'].includes(stage)?'お知らせ':'幸運を、あなたに';
+  find('label').textContent=stage==='winner'?(demo?'テスト当選':'ご当選'):stage==='drawing'?'運命のひとくじ':['cancelled','ended'].includes(stage)?'お知らせ':'幸運を、あなたに';
   find('prize').hidden=!draw;find('prize').textContent=draw?.prize||'';
   find('waiting').hidden=!!draw;find('drawing').hidden=stage!=='drawing';find('winner').hidden=stage!=='winner';
-  find('wait-title').textContent=next.state==='open'?'ただいま参加受付中':next.state==='cancelled'?'このイベントは中止になりました':next.state==='completed'?'本日の抽選は終了しました':'まもなく抽選が始まります';
-  find('wait-note').textContent=['cancelled','completed'].includes(next.state)?'ご参加ありがとうございました':'当選発表まで、そのままお待ちください';
+  find('wait-title').textContent=demo?'テストでくじを引いてみましょう':next.state==='open'?'ただいま参加受付中':next.state==='cancelled'?'このイベントは中止になりました':next.state==='completed'?'本日の抽選は終了しました':'まもなく抽選が始まります';
+  find('wait-note').textContent=demo?'「テストで1回引く」を押すと演出が始まります':['cancelled','completed'].includes(next.state)?'ご参加ありがとうございました':'当選発表まで、そのままお待ちください';
   find('winner-name').textContent=draw?.winner||'';
   find('coins').hidden=!draw?.coins;
   find('amount').textContent=(draw?.coins||0).toLocaleString('ja-JP');
   find('participants').textContent=String(next.participants);find('winners').textContent=String(next.winners);
-  find('footer').textContent=next.state==='completed'?'ご参加ありがとうございました':'当選結果はDiscordでも発表します';
+  find('footer').textContent=demo?'練習用です。銭の増減・景品の消費・Discord発表はありません':next.state==='completed'?'ご参加ありがとうございました':'当選結果はDiscordでも発表します';
   current=next;
  }
  async function refresh(){
-  if(active||stopped)return;active=true;
+  if(demo||active||stopped)return;active=true;
   try{
    const url=new URL(root.dataset.endpoint,location.href);
    if(current.draw&&(current.draw.winner===null||performance.now()<holdUntil))url.searchParams.set('focus',current.draw.id);
@@ -39,5 +40,21 @@
  document.addEventListener('fullscreenchange',()=>{find('fullscreen').textContent=document.fullscreenElement?'全画面を閉じる':'全画面';});
  window.addEventListener('pagehide',()=>{stopped=true;clearTimeout(timer);});
  window.addEventListener('pageshow',e=>{if(e.persisted){stopped=false;refresh();}});
+ if(demo){
+  const initial=JSON.parse(root.dataset.initial),button=find('demo-draw');let drawn=0,demoTimer;
+  find('demo-reset').addEventListener('click',()=>{clearTimeout(demoTimer);demoTimer=undefined;drawn=0;button.disabled=false;button.textContent='テストで1回引く';render({...initial});});
+  button.addEventListener('click',()=>{
+   if(demoTimer||drawn>=initial.participants)return;
+   button.disabled=true;button.textContent='くじを引いています…';
+   const id='demo-'+(drawn+1),prize=['テスト景品・お楽しみ賞','テスト景品・記念品','テスト景品・500銭'][drawn%3];
+   render({...initial,winners:drawn,draw:{id,prize,winner:null,coins:null}});
+   demoTimer=setTimeout(()=>{
+    demoTimer=undefined;drawn++;
+    render({...initial,winners:drawn,draw:{id,prize,winner:'テスト参加者 '+String.fromCharCode(64+drawn),coins:drawn%3===0?500:0}});
+    button.disabled=drawn>=initial.participants;button.textContent=button.disabled?'全員のテストが終了しました':'もう1回テストで引く';
+   },3000);
+  });
+  return;
+ }
  render(current);refresh();
 })();

diff --git a/docs/work-notes.md b/docs/work-notes.md
@@ -1,3 +1,12 @@
+## 2026年11月8日：くじ引きのテスト運転と札を引く演出（作業中）
+- 依頼：「テストで回せるようにして」「くじ引き引いてるえんしゅつもほしい」。実参加者/景品/銭/Discordへ影響しない、繰り返し操作できるテストモードを追加。箱から札を引き、開いて発表する演出へ具体化する。
+- 開始：PR164は未合流、headbc2dc9d0で最新CI2本成功・レビュー指摘なし。本番2bc83cbaをfetch確認。同じcodex/event-lottery-presentation/PR164へ追加し、合流は別指示待ち。
+- 守ること：テストは架空の名前と景品だけをブラウザー内で使用。DBの参加登録/抽選/銭/実景品残数/Discordへ書かない。テスト表示を常時明示。宮司/経済権限の検査は維持。実抽選の確定結果と3秒の発表時刻は変えない。
+- 実装：?screen=demoはイベント未作成でも同じ宮司権限で開け、実イベントIDを渡しても架空の8人/景品だけを使う。1回/リセット/全8人後のやり直しをブラウザー内で完結。テストでは状態取得も実行しない（戻る操作の復帰でもpollしないガードを追加）。本番共有表示は従来の保存済み結果へ追従し、箱から札を取り出して封を開く演出へ変更。全画面720p/横長画面にも収めた。
+- 途中検証：関連10件・最終型/build成功。Chromiumでオフライン8回、連打、途中リセット、8人後の停止/再開、再読み込み、ページ復帰、全画面、6幅、省演出、横はみ出しなし、書込/状態poll 0・JS例外0。通常モードも待機/抽選/発表/連続表示/再接続を再確認。時計制御で2999msは非表示、3000msで発表、途中リセット後の遅延発表なしを確認。
+- 試験準備でfixture起動待ち不足の接続拒否、撮影を挟む実時間判定での失敗があり、起動完了待ちと制御時計での境界検証へ直した。初期720pの縦はみ出しは短い画面のCSSで修正し、844×390/1280×720/1440×900/1920×1080の収まりを確認。サンプルdocs/previews/event-lottery-demo-{waiting,pull,open,winner}.webp（架空データ）。
+- 全テスト実行中。ログ/tmp/event-demo-{related,types-final,build-final,browser-final,live-browser,compact,clock-final,all}.log。実イベント/銭/Discordは操作していない。型/build/全件の結果を記録してPR164を更新する。新headのCIは旧bc2dc9d0の成功と区別する。今回の追加分は未合流・本番未反映。
+
 ## 2026年11月8日：イベントくじの画面共有用の表示（検証完了・PR保存）
 - 依頼：「それ画面共有でイベント感だせる？」。画面共有用の専用表示としてイベント名・抽選中・当選者と景品を大きく見せ、運営画面で行った抽選結果へ自動追従する方向を案内。
 - 守ること：既存の徴収・当選確定・賞金・Discord通知を再実行しない。共有表示も経済権限のある宮司のみ。受付パネルの景品非表示を維持し、未当選の景品一覧や運営情報を共有画面へ出さない。今回の追加変更の合流/公開は別指示待ち（PR163への合流承認は別件）。

diff --git a/docs/admin.md b/docs/admin.md
@@ -2747,3 +2747,9 @@ JavaScriptの操作では、保存後の結果画面をPOSTの応答で直接受
 受付の締切と抽選は手元の運営画面で行います。共有画面は約1秒ごとに保存済みの状態を読み取り、抽選直後は演出、サーバーの発表時刻（抽選から3秒後）を過ぎてから当選者を表示します。読み込み直しても同じ当選結果を表示し、抽選や賞金付与をやり直しません。接続が切れた場合は画面に表示します。連続抽選や接続復旧でも未表示の当選を順番に発表し、当選者は最低約2.5秒表示してから次へ進みます。開き直したときは、最新の保存済み結果から表示します。省演出の端末設定では動きを止め、発表時刻は変えません。効果音・BGMは追加していません。
 
 共有用ページと状態取得も、経済ページ権限を持つ宮司のログインが必要です。参加者にはDiscordの画面共有で見てもらいます。受付パネルの景品非表示と、Discordへの当選発表は従来どおりです。
+
+#### 本番に影響しないテスト抽選
+
+「イベントくじ」の「テスト抽選を試す（別画面）」から、イベントを作る前でも練習できます。「テストで1回引く」を押すと、箱から札を取り出して封を開き、3秒後に架空の当選者と景品を表示します。8人分を順番に試せ、「最初に戻す」で何度でもやり直せます。引いている途中の連打は受け付けず、途中で最初に戻した場合は前の発表を取り消します。
+
+画面には常に「テストモード」と表示します。実参加者・実景品は読み込まず、銭・景品残数・参加登録・当選履歴・Discordには影響しません。再読み込みすると練習だけが最初に戻ります。本番の共有画面にも同じ箱・札・開封の演出を使いますが、当選者は従来どおりサーバーで確定した結果だけを表示します。省演出の設定では動きを止め、3秒の発表待ちは維持します。

diff --git a/docs/user-decisions.md b/docs/user-decisions.md
@@ -1,3 +1,6 @@
+## 2026年11月8日：くじ引きの練習操作と引く動き
+- 本番に影響せずテストで回したい。架空の参加者/景品だけで繰り返し引ける練習表示を追加し、常にテストと分かるようにする。演出は箱から札を取り出して開く流れにする。今回分の合流は別指示待ち。
+
 ## 2026年11月8日：明日のくじ引きを画面共有で見せる
 - 画面共有でイベントらしく見せたい。運営画面とは別にイベント名・抽選中・当選者と景品を大きく映す表示を作り、手元の運営操作による保存済み結果へ追従する。既存の徴収/抽選結果/賞金付与は変えない。今回の追加変更はPRで確認し、合流は別指示待ち。
 
